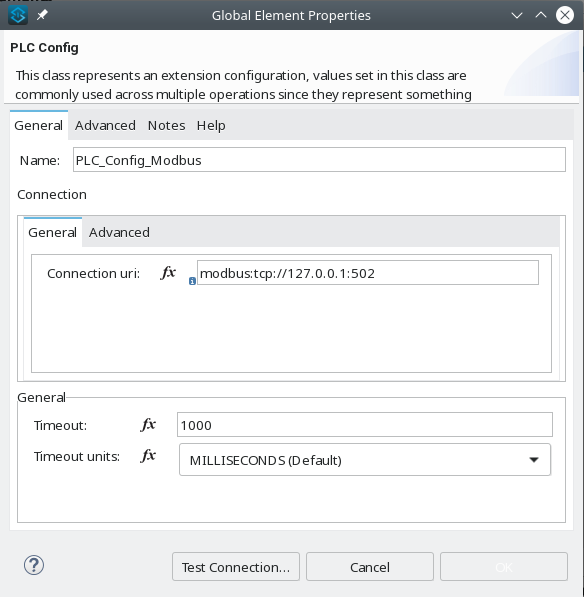
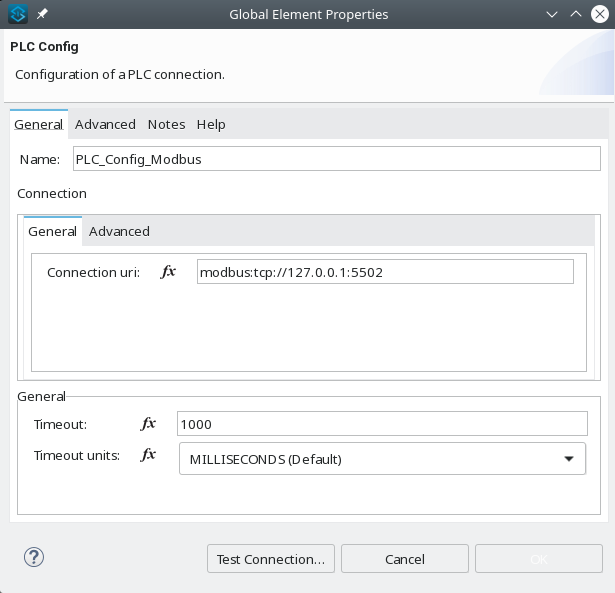
parameter rename

diff --git a/src/main/java/nl/teslanet/mule/connectors/plc/api/ReadRequestBuilder.java b/src/main/java/nl/teslanet/mule/connectors/plc/api/ReadRequestBuilder.java
@@ -30,7 +30,6 @@ import org.mule.runtime.extension.api.annotation.Expression;
 import org.mule.runtime.extension.api.annotation.param.NullSafe;
 import org.mule.runtime.extension.api.annotation.param.Optional;
 import org.mule.runtime.extension.api.annotation.param.Parameter;
-import org.mule.runtime.extension.api.annotation.param.display.DisplayName;
 import org.mule.runtime.extension.api.annotation.param.display.Summary;
 
 
@@ -47,7 +46,6 @@ public class ReadRequestBuilder
     @NullSafe
     @Expression(ExpressionSupport.SUPPORTED)
     @Summary("The PLC items to read.")
-    @DisplayName("Requestitems")
     private List< ReadField > readFields= null;
 
     /**

diff --git a/src/main/java/nl/teslanet/mule/connectors/plc/api/WriteRequestBuilder.java b/src/main/java/nl/teslanet/mule/connectors/plc/api/WriteRequestBuilder.java
@@ -30,7 +30,6 @@ import org.mule.runtime.extension.api.annotation.Expression;
 import org.mule.runtime.extension.api.annotation.param.NullSafe;
 import org.mule.runtime.extension.api.annotation.param.Optional;
 import org.mule.runtime.extension.api.annotation.param.Parameter;
-import org.mule.runtime.extension.api.annotation.param.display.DisplayName;
 import org.mule.runtime.extension.api.annotation.param.display.Summary;
 
 
@@ -48,7 +47,6 @@ public class WriteRequestBuilder
     @NullSafe
     @Expression(ExpressionSupport.SUPPORTED)
     @Summary("The fields to write to.")
-    @DisplayName("Requestitems")
     private List< WriteField > writeFields;
 
     /**

diff --git a/src/main/java/nl/teslanet/mule/connectors/plc/internal/MulePlcConfig.java b/src/main/java/nl/teslanet/mule/connectors/plc/internal/MulePlcConfig.java
@@ -35,15 +35,13 @@ import org.mule.runtime.extension.api.annotation.param.display.Summary;
 
 
 /**
- * This class represents an extension configuration, values set in this class are commonly used across multiple
- * operations since they represent something core from the extension.
+ * Configuration of a PLC connection.
  */
 @Configuration(name= "config")
 @Operations(MulePlcOperations.class)
 @ConnectionProviders(MulePlcConnectionProvider.class)
 public class MulePlcConfig
 {
-
     @RefName
     private String configName= null;
 

diff --git a/README.md b/README.md
@@ -158,7 +158,7 @@ The write operation writes values to one or more fields of the PLC. The request 
 
 Example: 
 
-![Image](src/site/images/plc_write.png "ping")
+![Image](src/site/images/plc_write.png "write")
 
 Xml configuration:
 ```
